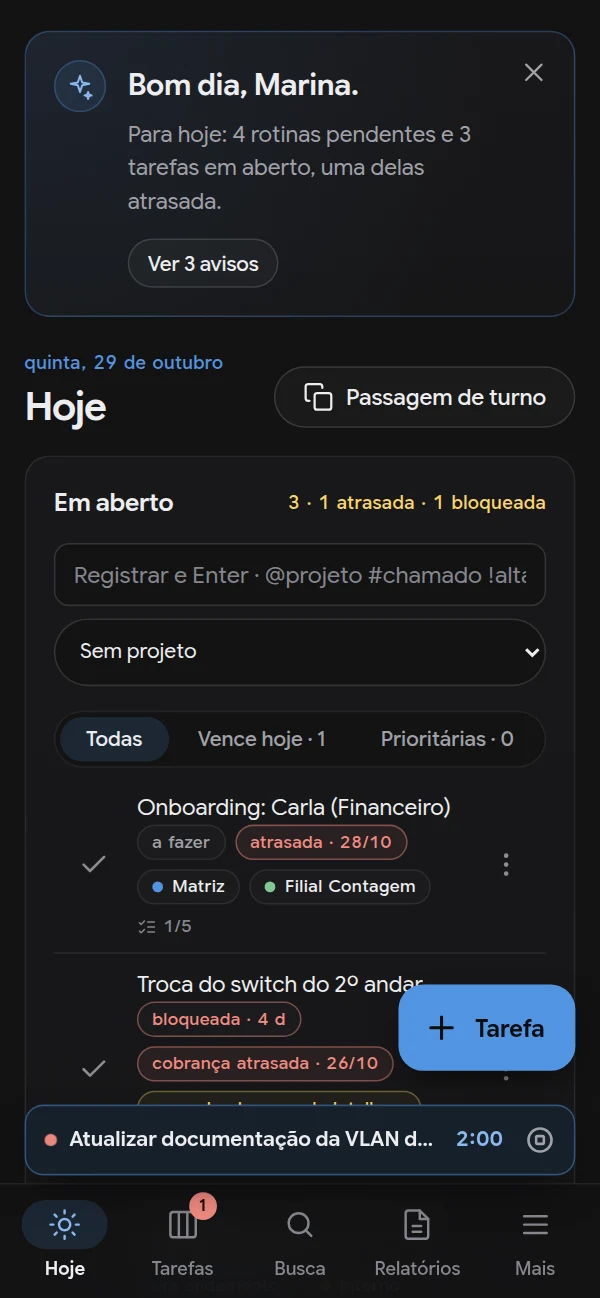
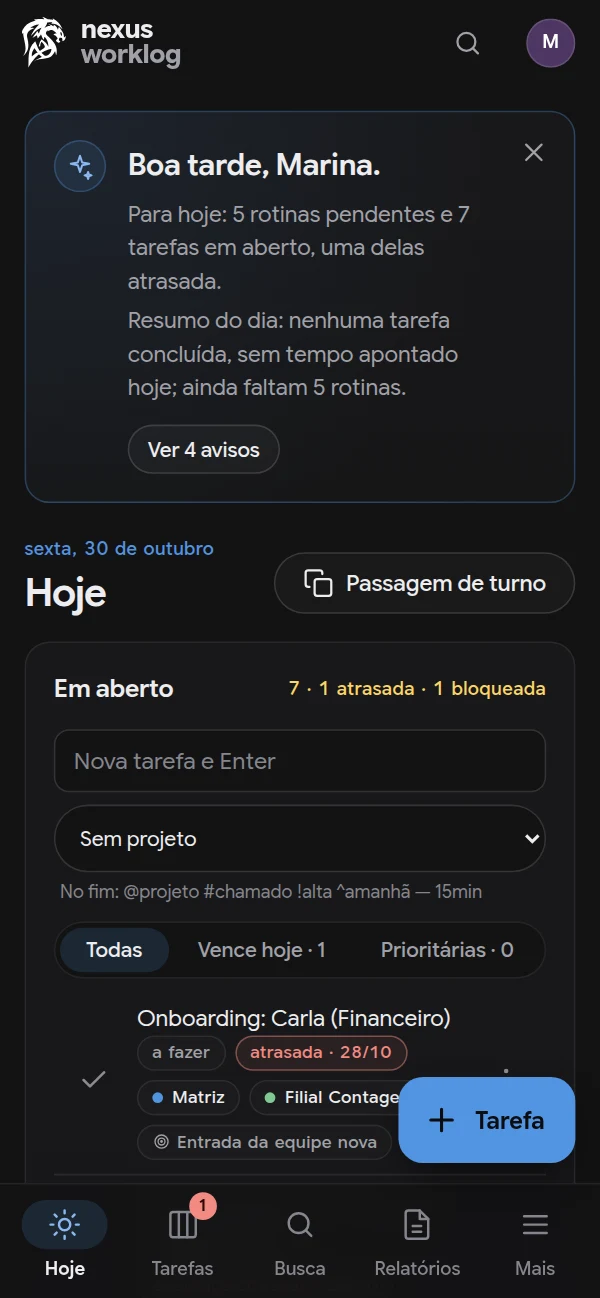
README: capturas novas (barra do topo no celular, fotos no detalhe, avisos)

diff --git a/README.md b/README.md
@@ -111,8 +111,8 @@ Capturas de uma conta de demonstração, com dados fictícios.
 ![Quadro de tarefas com chamados, plantão e o cronômetro no menu](docs/screenshots/02-tarefas.webp)
 *Tarefas — o número do chamado vira link, o plantão aparece em roxo, a bloqueada mostra o que aguarda e quando cobrar, e o cronômetro roda no menu.*
 
-![Detalhe de uma tarefa com checklist, tempo e anotações](docs/screenshots/03-tarefa.webp)
-*Detalhe da tarefa — checklist, apontamentos de tempo e anotações num lugar só.*
+![Detalhe de uma tarefa com checklist, fotos, tempo e anotações](docs/screenshots/03-tarefa.webp)
+*Detalhe da tarefa — checklist, fotos (câmera, print colado ou arrastado), apontamentos de tempo e anotações num lugar só; o botão no topo expande para ler com calma.*
 
 ![Retrospectiva com aderência, vazão, tempo por projeto e backlog](docs/screenshots/04-retrospectiva.webp)
 *Retrospectiva — aderência de cada rotina, vazão por semana, tempo por cliente e saúde do backlog, com uma leitura do assistente no topo.*
@@ -127,11 +127,11 @@ Capturas de uma conta de demonstração, com dados fictícios.
 *Vencimentos — quantos dias faltam; “Virar tarefa” cria a renovação e “Renovei” informa a nova data.*
 
 <p>
-  <img src="docs/screenshots/06-celular.webp" width="300" alt="Tela Hoje no celular">
+  <img src="docs/screenshots/06-celular.webp" width="300" alt="Tela Hoje no celular, com a barra do topo com a marca">
   <img src="docs/screenshots/07-relatorio.webp" width="420" alt="Primeira página do relatório em PDF">
 </p>
 
-*No celular, o mesmo assistente e o cronômetro acima da barra. Ao lado, a primeira página do relatório em PDF: indicadores, ritmo do período, rotinas, projetos e tarefas, com o plantão separado.*
+*No celular, a barra do topo com a marca, o mesmo assistente e o cronômetro acima da barra de baixo; instala como app, avisa com o app fechado e funciona sem sinal. Ao lado, a primeira página do relatório em PDF: indicadores, ritmo do período, rotinas, projetos e tarefas, com o plantão separado.*
 
 ## Arquitetura
 
